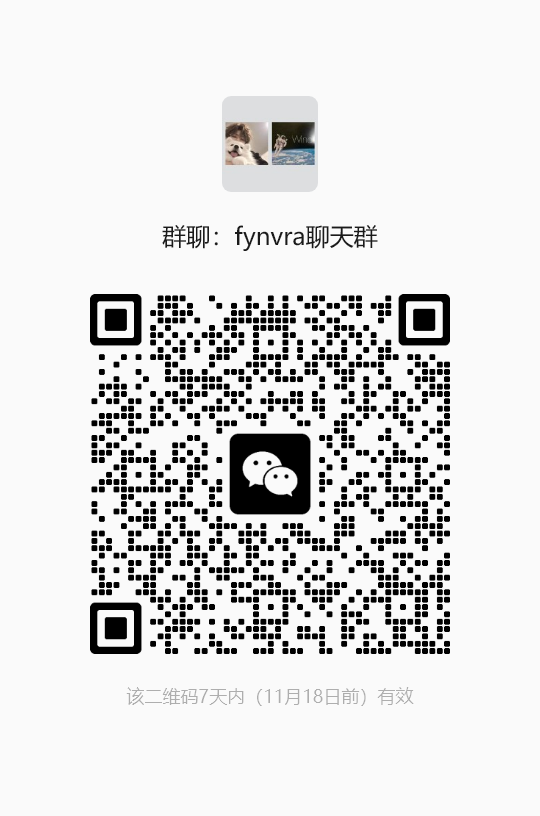
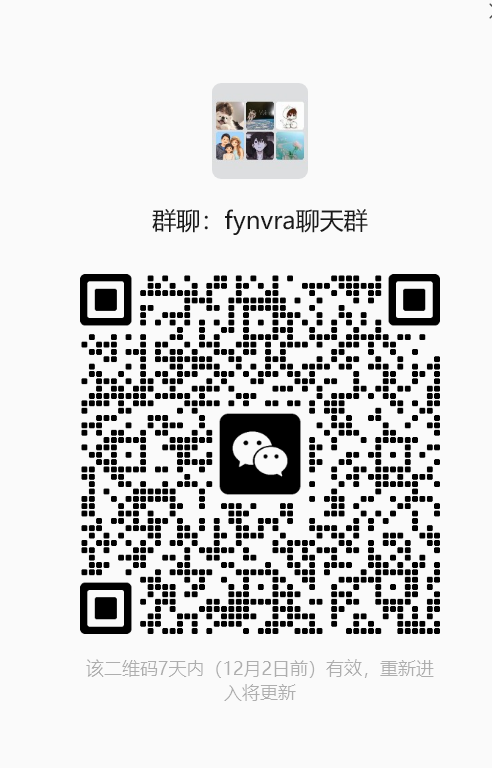
docs(readme): add Telegram group link and update WeChat QR code
The previous WeChat group QR code expired; replace it with the new one and add the Telegram group link to both READMEs.

Changed region(s): [[0.1524, 0.3438, 0.9146, 0.9062], [0.3049, 0.0938, 0.7622, 0.3125]]

diff --git a/README.md b/README.md
@@ -123,6 +123,8 @@ Package guides: [Core domain](packages/core/README.md) · [Agent runtime](packag
 
 ## Community
 
+Join the [Fynvra Telegram group](https://t.me/+LKOO6MPWsbo0YTEx).
+
 Scan the QR code below with WeChat to join the Fynvra user group.
 
 <img src="docs/assets/wechat-group-qr.png" alt="QR code for the Fynvra WeChat user group" width="320" />
